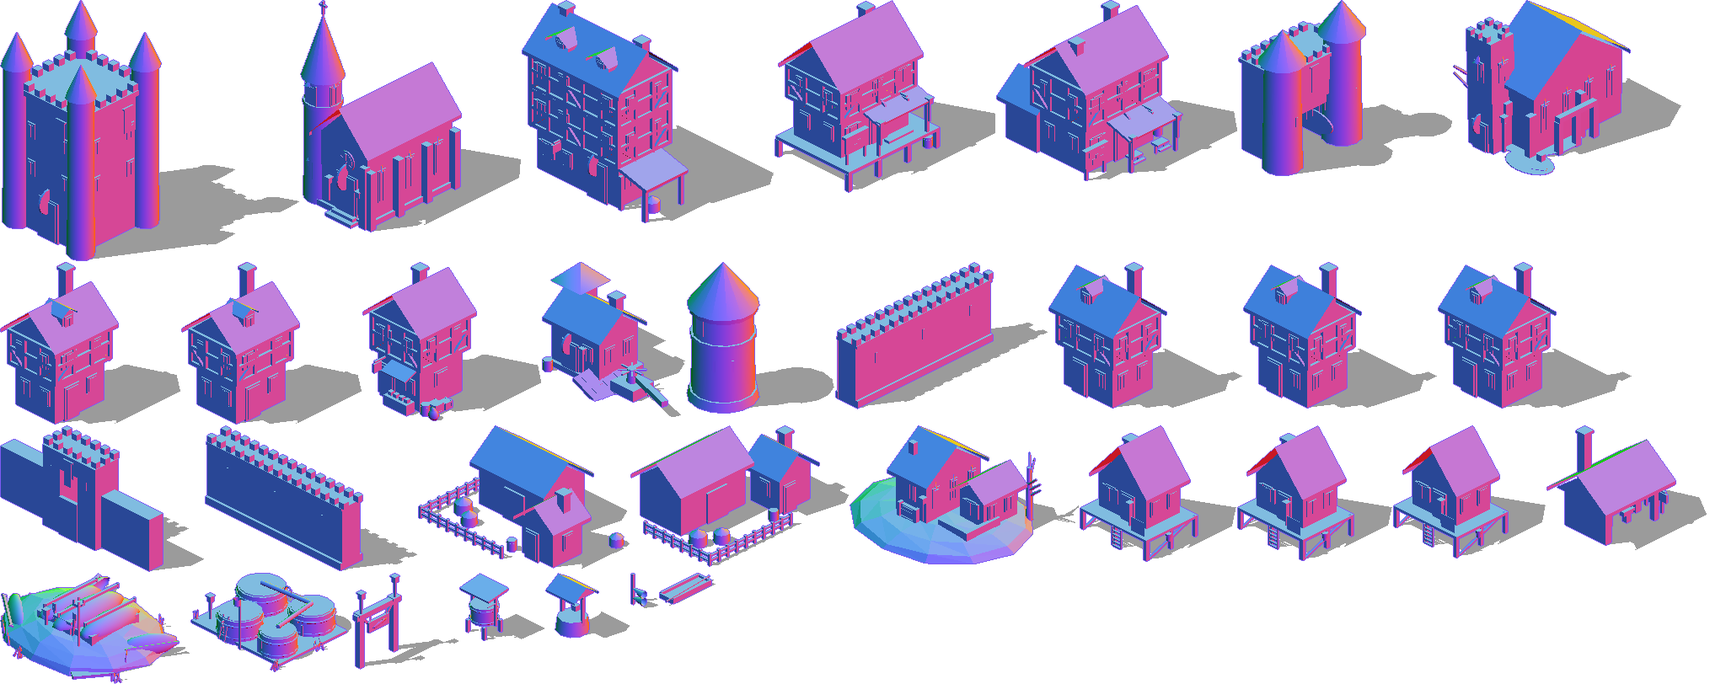
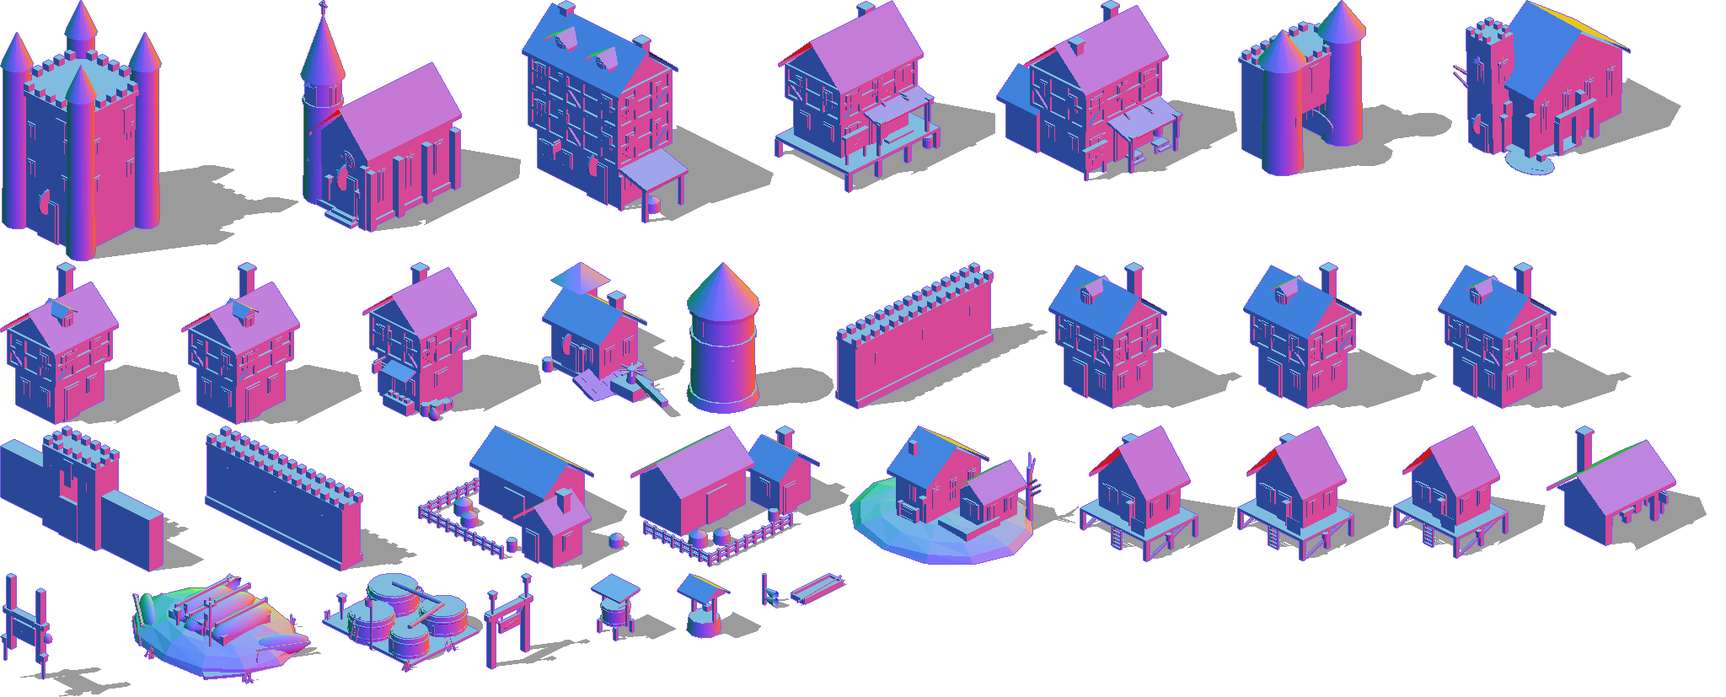
Saltmere: Wenna's ferry stage, and a sign you can tap for the Mere Tower
The owner, at Saltmere at night: "Its not obvious what to click on to get to the mere tower." The way was a 3-tile
jetty by the landing gate, a punt, and the name in the same plain text as any landmark's.

- A ferry stage over the jetty's end (buildkit `ferrystage`, town.json `fens_ferrystage_1`): a lantern arch taller
  than the landing gate (sprite top 12.7 vs 8.85), a black board painted with a pale tower, a bell. Re-baked
  town-fens; no other footprint changed (0 of the existing ids).
- The jetty runs 11 tiles now, under the arch, to a small pool of its own where the punt is moored; the way out is
  just past the arch. Checked by flood fill from the boardwalk on three seeds; the road test still holds.
- Its label is a door plaque (gold border, a ›, kept on screen, hung at the arch's beam so it clears Saltmere's
  name). renderer.doorAt hit-tests it at 44 CSS px tall at least; a tap walks the party there as the compass row
  does (goto site:mere_tower), or taps the ground if the row is missing.
- Tests: tower.test (the stage over the jetty's end, the sign on it, the compass row walks you out to the Tower);
  browser §21 (from the boardwalk at night the plaque is on screen; a tap walks you down the jetty and out).
- Docs: world doc (the stage), GDD §17 note, fens critic pass section, docs/img/mere-tower-way.jpg (before/after).

npm run check: 356 pass, SMOKE_OK, RENDER_SMOKE_OK; npm run test:browser: BROWSER_OK.
[…]

diff --git a/src/sim/envfoot.js b/src/sim/envfoot.js
@@ -1,4 +1,4 @@
 // envfoot.js — GENERATED by tools/actor-lab/bake-env.cjs. Do not edit.
 // Ground footprint of each baked environment sprite, in tiles relative to its
 // origin: [x0, y0, x1, y1]. Used for collision and placement.
-export const ENV_FOOT = {"pine_1":[-4.13,-4.18,4.39,4.34],"pine_2":[-4.81,-4.8,5.12,5],"pine_3":[-4.98,-5.01,5,4.96],"pine_4":[-5.13,-5.38,5.48,5.19],"pine_5":[-4.8,-4.87,4.86,4.58],"pine_6":[-4.76,-4.68,4.81,4.84],"oak_1":[-6.75,-7.14,6.33,6.1],"oak_2":[-5.79,-6.35,5.76,6.08],"oak_3":[-6.48,-6.65,6.29,5.96],"oak_4":[-6.59,-6.8,6.43,6.89],"autumn_1":[-6.59,-6.88,6.22,6.33],"autumn_2":[-5.57,-5.73,5.51,5.75],"autumn_3":[-5.1,-5.47,5.08,5.06],"birch_1":[-4.93,-3.24,2.73,4.21],"birch_2":[-4.81,-4.29,4.6,3.62],"birch_3":[-5.17,-3.57,4.88,4.81],"dead_1":[-2.24,-2.81,2.66,2.62],"dead_2":[-2.56,-1.87,2.98,3.05],"grove_1":[-9.86,-8.38,6.88,6.28],"grove_2":[-10.59,-7.13,5.79,8.69],"grove_3":[-10.94,-8,11.15,9.36],"grove_4":[-10.79,-8.1,8.04,10.5],"grove_5":[-9.42,-11.89,11.01,10.13],"grove_6":[-7.78,-9.39,8.91,8.76],"bridge_0":[-3.6,-9.7,3.6,9.7],"bridge_90":[-9.7,-3.6,9.7,3.6],"rock_A":[-2.18,-2.03,2.19,2.41],"rock_B":[-2.03,-2.12,2.06,1.97],"rock_C":[-3.06,-3.35,3.32,3.55],"rock_D":[-2.7,-3.56,2.22,2.22],"rock_E":[-3.72,-3.84,4.19,6.22],"mountain_A_grass_trees":[-10.67,-10.54,11.17,11.99],"mountain_B_grass_trees":[-12.25,-12.31,11.91,11.79],"mountain_C_grass_trees":[-11.39,-10.97,11.31,12.47],"mountain_A":[-10,-10.64,10.64,10.58],"mountain_B":[-11.58,-11.7,12.29,12.11],"mountain_massif_A":[-37.07,-33.75,43.44,35.17],"mountain_massif_B":[-30.31,-33,30.17,32.15],"mountain_massif_C":[-24.46,-24.21,25.04,24.61],"ruin":[-9.37,-9.66,9.14,6.89],"mine_0":[-13.86,-13.76,9.84,11.1],"lumbermill_90":[-10.3,-7.1,9.4,8.9],"barrel":[-0.89,-0.94,0.89,0.94],"crate_A_big":[-1.12,-1.12,1.12,1.19],"crate_A_small":[-0.72,-0.72,0.72,0.79],"crate_B_big":[-1.12,-1.12,1.12,1.19],"crate_long_A":[-2.02,-1.02,2.02,1.09],"sack":[-0.62,-0.49,1.25,1.36],"wheelbarrow":[-1.32,-2.69,1.32,3.23],"weaponrack":[-1.2,-0.19,2.1,0.81],"bucket_water":[-0.65,-0.65,0.65,0.65],"resource_lumber":[-3.33,-1.78,3.33,2.15],"resource_stone":[-1.7,-1.97,1.75,0.83],"flag_red":[-0.16,-0.12,0.16,1.84],"stump":[-1.06,-1.15,1.12,1.1],"fence_0":[-0.25,-6.05,0.3,6.05],"fence_90":[-6.05,-0.3,6.05,0.25],"drywall_0":[-0.83,-5.8,0.8,5.78],"drywall_90":[-5.8,-0.8,5.78,0.83],"stairsup_0":[-2.6,-4.15,2.6,3.1],"stairsup_90":[-4.15,-2.6,3.1,2.6],"stairsdown_0":[-3.38,-3.8,3.38,3.01],"watermill_0":[-6.12,-4.3,5.3,5.38],"chapelruin_0":[-6.67,-5.7,7.63,8.85],"milestone_0":[-1.68,-1.61,1.66,3.1],"warren_0":[-19.82,-24.03,13.71,8.3],"wagon_0":[-4.9,-1.55,4.09,3.62],"ug_bush":[-2.03,-2.14,2.18,2.18],"ug_fern":[-3.54,-3.27,3.7,3.52],"ug_plant":[-1.95,-2.32,2.09,2.06],"ug_flowers_1":[-0.86,-1.12,1.22,1.11],"ug_flowers_2":[-1.3,-0.89,1.19,1.02],"ug_grass_1":[-1.48,-1.64,1.6,1.55],"ug_grass_2":[-0.81,-0.96,0.98,1.03],"ug_clover":[-1,-0.94,0.7,0.73],"ug_mushroom":[-1.62,-0.82,1.79,1.94],"rock_F":[-2.07,-1.38,1.8,2.21],"rock_G":[-2.06,-1.39,1.6,1.58],"rock_H":[-2.19,-1.07,1.91,3.1],"wheat_1":[-0.69,-0.8,0.76,0.68],"wheat_2":[-0.71,-0.84,0.73,0.93],"wheat_3":[-0.9,-0.69,0.81,0.84],"cow_1":[-2.23,-1.26,3.32,1.47],"cow_2":[-1.59,-3.37,2.14,2.06],"cow_3":[-1.78,-1.91,2.44,2.81],"sheep_1":[-2.67,-1.44,1.86,1.44],"sheep_2":[-1.46,-2.63,1.49,1.85],"hens_1":[-1.36,-1.34,1.27,2.35],"pumpkins_1":[-1.77,-1.16,1.14,1.73],"hay_1":[-2.02,-1,2.02,1.25],"hay_2":[-1.48,-1.41,1.48,1.5],"planter_1":[-1.3,-0.4,1.3,0.4],"alder_1":[-4.75,-5.67,5.55,5.23],"alder_2":[-5.24,-5.4,5.37,5.39],"alder_3":[-5.48,-4.83,5.77,4.74],"willow_1":[-7.04,-6.27,6.42,6.51],"willow_2":[-7.57,-7.83,6.93,7.54],"carr_1":[-7.28,-6.88,6.22,6.2],"carr_2":[-6.81,-6.88,6.65,6.31],"vale_tavern_1":[-8.45,-6.72,7.25,6.3],"vale_inn_1":[-7.1,-4.4,10.48,5.1],"vale_shop_1":[-4.2,-4.2,5.72,5.07],"vale_temple_1":[-6.81,-6.95,4.5,7.84],"vale_well_1":[-2.1,-1.8,2.1,1.8],"vale_house_1":[-4.7,-4,4.7,4],"vale_house_2":[-4.7,-4,4.7,4],"vale_house_3":[-4.7,-4,4.7,4],"vale_housex_1":[-4,-4.7,4,4.7],"vale_housex_2":[-4,-4.7,4,4.7],"vale_farm_1":[-9.63,-5.7,9.77,7.63],"vale_farmx_1":[-5.7,-9.77,7.63,9.63],"vale_keep_1":[-6.37,-6.45,6.37,6.45],"vale_wall_1":[-11,-1.7,11,2.1],"vale_smith_1":[-4.3,-5.36,4.8,5.2],"vale_curtain_1":[-10.09,-2,10.15,2],"vale_curtainy_1":[-2,-10.15,2,10.09],"vale_tower_1":[-4.1,-4.1,4.1,4.1],"vale_gatehousey_1":[-3,-7.5,3,7.5],"fens_tavern_1":[-8.45,-6.72,7.25,6.3],"fens_inn_1":[-7.1,-4.4,10.48,5.1],"fens_shop_1":[-4.2,-4.2,5.72,5.07],"fens_temple_1":[-6.81,-6.95,4.5,7.84],"fens_well_1":[-2.1,-1.8,2.1,1.8],"fens_house_1":[-4.7,-4,4.7,4],"fens_house_2":[-4.7,-4,4.7,4],"fens_house_3":[-4.7,-4,4.7,4],"fens_housex_1":[-4,-4.7,4,4.7],"fens_housex_2":[-4,-4.7,4,4.7],"fens_farm_1":[-9.63,-5.7,9.77,7.63],"fens_farmx_1":[-5.7,-9.77,7.63,9.63],"fens_keep_1":[-6.37,-6.45,6.37,6.45],"fens_wall_1":[-11,-1.7,11,2.1],"fens_smith_1":[-4.3,-5.36,4.8,5.2],"fens_curtain_1":[-10,-1.6,10.3,1.6],"fens_curtainy_1":[-1.6,-10.3,1.6,10],"fens_tower_1":[-3.7,-3.8,3.7,3.8],"fens_gatehousey_1":[-3,-7,5.7,7],"fens_stilt_1":[-4.81,-3.8,5.15,3.99],"fens_stilt_2":[-4.66,-3.8,5,3.99],"fens_stilt_3":[-4.9,-3.8,5.24,3.99],"fens_stilttavern_1":[-5.45,-6.75,5.75,6.75],"fens_cistern_1":[-2.1,-1.56,2.1,1.56],"fens_punt_1":[-1,-3.29,1,3.69],"fens_eeltrap_1":[-0.45,-0.41,1.65,0.45],"fens_boathall_1":[-10.75,-9.86,9.83,7.48],"fens_lockhall_1":[-8.1,-6,12.96,5.11],"fens_vats_1":[-6.86,-6.13,7.31,5.8],"fens_abbey_1":[-8.09,-8.86,7.95,8.39],"fens_priory_1":[-10.4,-8.86,10.43,8.9],"fens_landing_1":[-0.45,-3.2,0.55,3.2],"reach_tavern_1":[-8.45,-6.72,7.25,6.3],"reach_inn_1":[-7.1,-4.4,10.48,5.1],"reach_shop_1":[-4.2,-4.2,5.72,5.07],"reach_temple_1":[-6.81,-6.95,4.5,7.84],"reach_well_1":[-2.1,-1.8,2.1,1.8],"reach_house_1":[-4.7,-4,4.7,4],"reach_house_2":[-4.7,-4,4.7,4],"reach_house_3":[-4.7,-4,4.7,4],"reach_housex_1":[-4,-4.7,4,4.7],"reach_housex_2":[-4,-4.7,4,4.7],"reach_farm_1":[-9.63,-5.7,9.77,7.63],"reach_farmx_1":[-5.7,-9.77,7.63,9.63],"reach_keep_1":[-6.37,-6.45,6.37,6.45],"reach_wall_1":[-11,-1.7,11,2.1],"reach_smith_1":[-4.3,-5.36,4.8,5.2],"reach_curtain_1":[-10,-1.6,10.3,1.6],"reach_curtainy_1":[-1.6,-10.3,1.6,10],"reach_tower_1":[-3.7,-3.8,3.7,3.8],"reach_gatehousey_1":[-3,-7,5.7,7],"heights_tavern_1":[-8.45,-6.72,7.25,6.3],"heights_inn_1":[-7.1,-4.4,10.48,5.1],"heights_shop_1":[-4.2,-4.2,5.72,5.07],"heights_temple_1":[-6.81,-6.95,4.5,7.84],"heights_well_1":[-2.1,-1.8,2.1,1.8],"heights_house_1":[-4.7,-4,4.7,4],"heights_house_2":[-4.7,-4,4.7,4],"heights_house_3":[-4.7,-4,4.7,4],"heights_housex_1":[-4,-4.7,4,4.7],"heights_housex_2":[-4,-4.7,4,4.7],"heights_farm_1":[-9.63,-5.7,9.77,7.63],"heights_farmx_1":[-5.7,-9.77,7.63,9.63],"heights_keep_1":[-6.37,-6.45,6.37,6.45],"heights_wall_1":[-11,-1.7,11,2.1],"heights_smith_1":[-4.3,-5.36,4.8,5.2],"heights_curtain_1":[-10,-1.6,10.3,1.6],"heights_curtainy_1":[-1.6,-10.3,1.6,10],"heights_tower_1":[-3.7,-3.8,3.7,3.8],"heights_gatehousey_1":[-3,-7,5.7,7]};
+export const ENV_FOOT = {"pine_1":[-4.13,-4.18,4.39,4.34],"pine_2":[-4.81,-4.8,5.12,5],"pine_3":[-4.98,-5.01,5,4.96],"pine_4":[-5.13,-5.38,5.48,5.19],"pine_5":[-4.8,-4.87,4.86,4.58],"pine_6":[-4.76,-4.68,4.81,4.84],"oak_1":[-6.75,-7.14,6.33,6.1],"oak_2":[-5.79,-6.35,5.76,6.08],"oak_3":[-6.48,-6.65,6.29,5.96],"oak_4":[-6.59,-6.8,6.43,6.89],"autumn_1":[-6.59,-6.88,6.22,6.33],"autumn_2":[-5.57,-5.73,5.51,5.75],"autumn_3":[-5.1,-5.47,5.08,5.06],"birch_1":[-4.93,-3.24,2.73,4.21],"birch_2":[-4.81,-4.29,4.6,3.62],"birch_3":[-5.17,-3.57,4.88,4.81],"dead_1":[-2.24,-2.81,2.66,2.62],"dead_2":[-2.56,-1.87,2.98,3.05],"grove_1":[-9.86,-8.38,6.88,6.28],"grove_2":[-10.59,-7.13,5.79,8.69],"grove_3":[-10.94,-8,11.15,9.36],"grove_4":[-10.79,-8.1,8.04,10.5],"grove_5":[-9.42,-11.89,11.01,10.13],"grove_6":[-7.78,-9.39,8.91,8.76],"bridge_0":[-3.6,-9.7,3.6,9.7],"bridge_90":[-9.7,-3.6,9.7,3.6],"rock_A":[-2.18,-2.03,2.19,2.41],"rock_B":[-2.03,-2.12,2.06,1.97],"rock_C":[-3.06,-3.35,3.32,3.55],"rock_D":[-2.7,-3.56,2.22,2.22],"rock_E":[-3.72,-3.84,4.19,6.22],"mountain_A_grass_trees":[-10.67,-10.54,11.17,11.99],"mountain_B_grass_trees":[-12.25,-12.31,11.91,11.79],"mountain_C_grass_trees":[-11.39,-10.97,11.31,12.47],"mountain_A":[-10,-10.64,10.64,10.58],"mountain_B":[-11.58,-11.7,12.29,12.11],"mountain_massif_A":[-37.07,-33.75,43.44,35.17],"mountain_massif_B":[-30.31,-33,30.17,32.15],"mountain_massif_C":[-24.46,-24.21,25.04,24.61],"ruin":[-9.37,-9.66,9.14,6.89],"mine_0":[-13.86,-13.76,9.84,11.1],"lumbermill_90":[-10.3,-7.1,9.4,8.9],"barrel":[-0.89,-0.94,0.89,0.94],"crate_A_big":[-1.12,-1.12,1.12,1.19],"crate_A_small":[-0.72,-0.72,0.72,0.79],"crate_B_big":[-1.12,-1.12,1.12,1.19],"crate_long_A":[-2.02,-1.02,2.02,1.09],"sack":[-0.62,-0.49,1.25,1.36],"wheelbarrow":[-1.32,-2.69,1.32,3.23],"weaponrack":[-1.2,-0.19,2.1,0.81],"bucket_water":[-0.65,-0.65,0.65,0.65],"resource_lumber":[-3.33,-1.78,3.33,2.15],"resource_stone":[-1.7,-1.97,1.75,0.83],"flag_red":[-0.16,-0.12,0.16,1.84],"stump":[-1.06,-1.15,1.12,1.1],"fence_0":[-0.25,-6.05,0.3,6.05],"fence_90":[-6.05,-0.3,6.05,0.25],"drywall_0":[-0.83,-5.8,0.8,5.78],"drywall_90":[-5.8,-0.8,5.78,0.83],"stairsup_0":[-2.6,-4.15,2.6,3.1],"stairsup_90":[-4.15,-2.6,3.1,2.6],"stairsdown_0":[-3.38,-3.8,3.38,3.01],"watermill_0":[-6.12,-4.3,5.3,5.38],"chapelruin_0":[-6.67,-5.7,7.63,8.85],"milestone_0":[-1.68,-1.61,1.66,3.1],"warren_0":[-19.82,-24.03,13.71,8.3],"wagon_0":[-4.9,-1.55,4.09,3.62],"ug_bush":[-2.03,-2.14,2.18,2.18],"ug_fern":[-3.54,-3.27,3.7,3.52],"ug_plant":[-1.95,-2.32,2.09,2.06],"ug_flowers_1":[-0.86,-1.12,1.22,1.11],"ug_flowers_2":[-1.3,-0.89,1.19,1.02],"ug_grass_1":[-1.48,-1.64,1.6,1.55],"ug_grass_2":[-0.81,-0.96,0.98,1.03],"ug_clover":[-1,-0.94,0.7,0.73],"ug_mushroom":[-1.62,-0.82,1.79,1.94],"rock_F":[-2.07,-1.38,1.8,2.21],"rock_G":[-2.06,-1.39,1.6,1.58],"rock_H":[-2.19,-1.07,1.91,3.1],"wheat_1":[-0.69,-0.8,0.76,0.68],"wheat_2":[-0.71,-0.84,0.73,0.93],"wheat_3":[-0.9,-0.69,0.81,0.84],"cow_1":[-2.23,-1.26,3.32,1.47],"cow_2":[-1.59,-3.37,2.14,2.06],"cow_3":[-1.78,-1.91,2.44,2.81],"sheep_1":[-2.67,-1.44,1.86,1.44],"sheep_2":[-1.46,-2.63,1.49,1.85],"hens_1":[-1.36,-1.34,1.27,2.35],"pumpkins_1":[-1.77,-1.16,1.14,1.73],"hay_1":[-2.02,-1,2.02,1.25],"hay_2":[-1.48,-1.41,1.48,1.5],"planter_1":[-1.3,-0.4,1.3,0.4],"alder_1":[-4.75,-5.67,5.55,5.23],"alder_2":[-5.24,-5.4,5.37,5.39],"alder_3":[-5.48,-4.83,5.77,4.74],"willow_1":[-7.04,-6.27,6.42,6.51],"willow_2":[-7.57,-7.83,6.93,7.54],"carr_1":[-7.28,-6.88,6.22,6.2],"carr_2":[-6.81,-6.88,6.65,6.31],"vale_tavern_1":[-8.45,-6.72,7.25,6.3],"vale_inn_1":[-7.1,-4.4,10.48,5.1],"vale_shop_1":[-4.2,-4.2,5.72,5.07],"vale_temple_1":[-6.81,-6.95,4.5,7.84],"vale_well_1":[-2.1,-1.8,2.1,1.8],"vale_house_1":[-4.7,-4,4.7,4],"vale_house_2":[-4.7,-4,4.7,4],"vale_house_3":[-4.7,-4,4.7,4],"vale_housex_1":[-4,-4.7,4,4.7],"vale_housex_2":[-4,-4.7,4,4.7],"vale_farm_1":[-9.63,-5.7,9.77,7.63],"vale_farmx_1":[-5.7,-9.77,7.63,9.63],"vale_keep_1":[-6.37,-6.45,6.37,6.45],"vale_wall_1":[-11,-1.7,11,2.1],"vale_smith_1":[-4.3,-5.36,4.8,5.2],"vale_curtain_1":[-10.09,-2,10.15,2],"vale_curtainy_1":[-2,-10.15,2,10.09],"vale_tower_1":[-4.1,-4.1,4.1,4.1],"vale_gatehousey_1":[-3,-7.5,3,7.5],"fens_tavern_1":[-8.45,-6.72,7.25,6.3],"fens_inn_1":[-7.1,-4.4,10.48,5.1],"fens_shop_1":[-4.2,-4.2,5.72,5.07],"fens_temple_1":[-6.81,-6.95,4.5,7.84],"fens_well_1":[-2.1,-1.8,2.1,1.8],"fens_house_1":[-4.7,-4,4.7,4],"fens_house_2":[-4.7,-4,4.7,4],"fens_house_3":[-4.7,-4,4.7,4],"fens_housex_1":[-4,-4.7,4,4.7],"fens_housex_2":[-4,-4.7,4,4.7],"fens_farm_1":[-9.63,-5.7,9.77,7.63],"fens_farmx_1":[-5.7,-9.77,7.63,9.63],"fens_keep_1":[-6.37,-6.45,6.37,6.45],"fens_wall_1":[-11,-1.7,11,2.1],"fens_smith_1":[-4.3,-5.36,4.8,5.2],"fens_curtain_1":[-10,-1.6,10.3,1.6],"fens_curtainy_1":[-1.6,-10.3,1.6,10],"fens_tower_1":[-3.7,-3.8,3.7,3.8],"fens_gatehousey_1":[-3,-7,5.7,7],"fens_stilt_1":[-4.81,-3.8,5.15,3.99],"fens_stilt_2":[-4.66,-3.8,5,3.99],"fens_stilt_3":[-4.9,-3.8,5.24,3.99],"fens_stilttavern_1":[-5.45,-6.75,5.75,6.75],"fens_cistern_1":[-2.1,-1.56,2.1,1.56],"fens_punt_1":[-1,-3.29,1,3.69],"fens_eeltrap_1":[-0.45,-0.41,1.65,0.45],"fens_boathall_1":[-10.75,-9.86,9.83,7.48],"fens_lockhall_1":[-8.1,-6,12.96,5.11],"fens_vats_1":[-6.86,-6.13,7.31,5.8],"fens_abbey_1":[-8.09,-8.86,7.95,8.39],"fens_priory_1":[-10.4,-8.86,10.43,8.9],"fens_landing_1":[-0.45,-3.2,0.55,3.2],"fens_ferrystage_1":[-3.15,-0.5,3.64,0.55],"reach_tavern_1":[-8.45,-6.72,7.25,6.3],"reach_inn_1":[-7.1,-4.4,10.48,5.1],"reach_shop_1":[-4.2,-4.2,5.72,5.07],"reach_temple_1":[-6.81,-6.95,4.5,7.84],"reach_well_1":[-2.1,-1.8,2.1,1.8],"reach_house_1":[-4.7,-4,4.7,4],"reach_house_2":[-4.7,-4,4.7,4],"reach_house_3":[-4.7,-4,4.7,4],"reach_housex_1":[-4,-4.7,4,4.7],"reach_housex_2":[-4,-4.7,4,4.7],"reach_farm_1":[-9.63,-5.7,9.77,7.63],"reach_farmx_1":[-5.7,-9.77,7.63,9.63],"reach_keep_1":[-6.37,-6.45,6.37,6.45],"reach_wall_1":[-11,-1.7,11,2.1],"reach_smith_1":[-4.3,-5.36,4.8,5.2],"reach_curtain_1":[-10,-1.6,10.3,1.6],"reach_curtainy_1":[-1.6,-10.3,1.6,10],"reach_tower_1":[-3.7,-3.8,3.7,3.8],"reach_gatehousey_1":[-3,-7,5.7,7],"heights_tavern_1":[-8.45,-6.72,7.25,6.3],"heights_inn_1":[-7.1,-4.4,10.48,5.1],"heights_shop_1":[-4.2,-4.2,5.72,5.07],"heights_temple_1":[-6.81,-6.95,4.5,7.84],"heights_well_1":[-2.1,-1.8,2.1,1.8],"heights_house_1":[-4.7,-4,4.7,4],"heights_house_2":[-4.7,-4,4.7,4],"heights_house_3":[-4.7,-4,4.7,4],"heights_housex_1":[-4,-4.7,4,4.7],"heights_housex_2":[-4,-4.7,4,4.7],"heights_farm_1":[-9.63,-5.7,9.77,7.63],"heights_farmx_1":[-5.7,-9.77,7.63,9.63],"heights_keep_1":[-6.37,-6.45,6.37,6.45],"heights_wall_1":[-11,-1.7,11,2.1],"heights_smith_1":[-4.3,-5.36,4.8,5.2],"heights_curtain_1":[-10,-1.6,10.3,1.6],"heights_curtainy_1":[-1.6,-10.3,1.6,10],"heights_tower_1":[-3.7,-3.8,3.7,3.8],"heights_gatehousey_1":[-3,-7,5.7,7]};

diff --git a/src/sim/outdoor.js b/src/sim/outdoor.js
@@ -423,7 +423,8 @@ function buildFens(seed) {
   // meres: Saltmere's, the Mound's (behind the island), the Sickpools' green water, the Abbey's flood round its walls;
   // and the fen's own, by the seed
   o.pools.push({ cx: salt[0] - 3, cy: salt[1] - 6, rx: 16, ry: 13 }, { cx: mound[0] - 12, cy: mound[1] - 10, rx: 17, ry: 12 },
-    { cx: pools[0] + 4, cy: pools[1] - 16, rx: 15, ry: 9 }, { cx: abbey[0] + 2, cy: abbey[1] - 4, rx: 22, ry: 15 });
+    { cx: pools[0] + 4, cy: pools[1] - 16, rx: 15, ry: 9 }, { cx: abbey[0] + 2, cy: abbey[1] - 4, rx: 22, ry: 15 },
+    { cx: salt[0] + 9, cy: salt[1] + 16, rx: 6, ry: 5 });   // (and the pool Wenna's punt waits in, at the jetty's end)
   const keepOut = [north, salt, mound, locks, lockhall, pools, abbey, reedholm];
   for (let i = 0; i < 26; i++) {
     const cx = rng() * 240, cy = rng() * 240, rx = 5 + rng() * 11, ry = 4 + rng() * 8;
@@ -434,7 +435,7 @@ function buildFens(seed) {
   const ROADS = [
     { w: 5, surface: 'dirt', pts: [[north[0], -30], [north[0] + 2, 14], [salt[0] + 12, salt[1] - 20], [salt[0] + 20, salt[1] + 6], [92, 100], [locks[0] - 8, locks[1]]] },   // the canal road, down from the Vale past Saltmere to the Locks
     { w: 4, surface: 'deck', pts: [[salt[0] + 19, salt[1]], [salt[0] - 2, salt[1]]] },                                     // Saltmere's boardwalk, straight in off the canal road to its landing gate
-    { w: 3, surface: 'deck', pts: [[salt[0] + 10, salt[1] + 1], [salt[0] + 10, salt[1] + 4]] },                            // (world doc v1.23) the jetty off it to Wenna Pike's punt: the Mere Tower
+    { w: 3, surface: 'deck', pts: [[salt[0] + 10, salt[1] + 1], [salt[0] + 10, salt[1] + 12]] },                            // (world doc v1.23) the jetty off it to Wenna Pike's punt: the Mere Tower
     { w: 5, surface: 'dirt', pts: [[locks[0] - 8, locks[1]], [locks[0] + 18, locks[1]]] },                                  // over the lock gates
     { w: 3, surface: 'track', pts: [[92, 114], [86, 122], [lockhall[0] + 1, lockhall[1] + 11]] },                         // to the lock-keepers' door
     { w: 4, surface: 'dirt', pts: [[locks[0] + 18, locks[1]], [150, 116], door(pools, 14)] },                              // east to the Sickpools
@@ -454,7 +455,12 @@ function buildFens(seed) {
     for (const dy of [-2.6, 2.6]) { const i = gi(o, G[0], G[1] + dy); if (i >= 0) o.blocked[i] = 1; }   // the piles
     for (const [id, x, y] of [[B('stilttavern'), salt[0] - 6, salt[1] - 12], [B('stilt', 1), salt[0] - 16, salt[1]], [B('stilt', 2), salt[0] + 2, salt[1] - 18],
       [B('stilt', 3), salt[0] - 14, salt[1] + 12], [B('stilt', 1), salt[0] - 20, salt[1] - 16], [B('stilt', 2), salt[0] - 8, salt[1] - 26]]) put(o, id, x, y);
-    for (const [id, x, y] of [[B('punt'), salt[0] + 10, salt[1] + 8], [B('punt'), salt[0] - 22, salt[1] - 8], [B('eeltrap'), salt[0] - 22, salt[1] + 4], [B('eeltrap'), salt[0] + 2, salt[1] + 10]]) put(o, id, x, y, 'rect', 0); }
+    for (const [id, x, y] of [[B('punt'), salt[0] + 8, salt[1] + 17], [B('punt'), salt[0] - 22, salt[1] - 8], [B('eeltrap'), salt[0] - 22, salt[1] + 4], [B('eeltrap'), salt[0] + 2, salt[1] + 10]]) put(o, id, x, y, 'rect', 0);
+    // Wenna Pike's ferry stage over the jetty's end, her punt moored past it (2026-10-05, the owner: it wasn't obvious
+    // where to go for the Mere Tower): an arch taller than the landing gate, lanterns on it, a black board with a pale
+    // tower; walked under, its posts either side of the jetty
+    put(o, B('ferrystage'), salt[0] + 10, salt[1] + 9, 'none');
+    for (const dx of [-2.4, 2.4]) { const i = gi(o, salt[0] + 10 + dx, salt[1] + 9); if (i >= 0) o.blocked[i] = 1; } }
   // the sites (world doc §3.2): the Toadking's island, the lock-keepers' hall by the gates, the vats, the Abbey in its
   // flood, Reedholm on its rise (the Undercroft's door in its chapel front, shut until the Fens set is whole)
   put(o, B('boathall'), mound[0], mound[1]); put(o, B('lockhall'), lockhall[0], lockhall[1]); put(o, B('vats'), pools[0], pools[1]);
@@ -464,7 +470,7 @@ function buildFens(seed) {
     { x: mound[0], y: mound[1], id: B('boathall'), text: "Toadking's Mound", site: 'toadking_mound' }, { x: lockhall[0], y: lockhall[1], id: B('lockhall'), text: 'The Canal Locks', site: 'canal_locks' },
     { x: pools[0], y: pools[1], id: B('vats'), text: 'The Sickpools', site: 'sickpools' }, { x: abbey[0], y: abbey[1], id: B('abbey'), text: 'The Drowned Abbey', site: 'drowned_abbey' },
     { x: reedholm[0], y: reedholm[1], id: B('priory'), text: 'Reedholm' },
-    { x: salt[0] + 10, y: salt[1] + 8, id: B('punt'), text: 'The Mere Tower · Wenna’s punt', site: 'mere_tower' });
+    { x: salt[0] + 10, y: salt[1] + 9, id: B('ferrystage'), text: 'The Mere Tower · Wenna’s punt', site: 'mere_tower', door: true });   // door: a plaque a tap walks you to (renderer doorAt)
   // the fen's trees: alder carr and willows, low and dark, dead trees standing in the water's edge; never on a road
   // (fens critic pass 2: the Vale's birches and mixed groves read round and cheerful here; the same draws, the Fens' kinds)
   scatter(o, rng, -60, -60, 300, 300, 7, (x, y) => {
@@ -488,8 +494,8 @@ function buildFens(seed) {
   o.arrivals = { default: { x: salt[0] + 12.5, y: salt[1] + 0.5 }, saltmere: { x: salt[0] + 12.5, y: salt[1] + 0.5 }, vale_road: { x: north[0] + 0.5, y: 2.5 } };   // on the boardwalk, facing the gate
   for (const [site, [x, y]] of Object.entries(SITE_AT)) o.arrivals[site] = { x: x + 1.5, y: y + DOOR_Y[site] + 7.5 };
   // Wenna Pike's punt at the jetty's end (world doc v1.23; tower.js): out to the Mere Tower, and back to the jetty
-  o.exits.push({ x0: salt[0] + 8.5, y0: salt[1] + 3.5, x1: salt[0] + 11.5, y1: salt[1] + 5.5, to: 'dungeon', site: 'mere_tower' });
-  o.arrivals.mere_tower = { x: salt[0] + 10.5, y: salt[1] + 1 };
+  o.exits.push({ x0: salt[0] + 8.5, y0: salt[1] + 9.5, x1: salt[0] + 11.5, y1: salt[1] + 12, to: 'dungeon', site: 'mere_tower' });
+  o.arrivals.mere_tower = { x: salt[0] + 10.5, y: salt[1] + 6 };
   o.spawn = o.arrivals.default;
   return o;
 }

diff --git a/src/render/renderer.js b/src/render/renderer.js
@@ -1256,12 +1256,15 @@ export function createRenderer(canvas, sim, input) {
     octx.strokeStyle = 'rgba(0,0,0,0.6)'; octx.stroke();
   }
   // Place names float over nearby landmarks (the tavern, the guild hall, the keep…).
+  // a door label's plaque as last drawn (canvas px), for a tap (doorAt): a way somewhere, tapped to walk there
+  const doorRects = [];
   function drawLabels(ox, oy, ix, iy) {
     const k = vw / window.innerWidth, z = heightAt(sim.world, 0, 0);
+    doorRects.length = 0;
     octx.font = `600 ${Math.round(11 * k)}px Georgia, 'Times New Roman', serif`; octx.textAlign = 'center';
     for (const L of sim.world.labels || []) {
-      const d = Math.hypot(L.x - ix, L.y - iy); if (d > (L.service && camT > 0.5 ? 90 : 60) || hiddenHere(L)) continue;   // (on the home screen every service's plaque, however far: the temple heads the square)
-      const top = (envMeta && L.id && envMeta.sprites[L.id]) ? envMeta.sprites[L.id].top * 9.8 : 100;
+      const d = Math.hypot(L.x - ix, L.y - iy); if (d > (L.service && camT > 0.5 ? 90 : L.door ? 70 : 60) || hiddenHere(L)) continue;   // (on the home screen every service's plaque, however far: the temple heads the square)
+      const top = ((envMeta && L.id && envMeta.sprites[L.id]) ? envMeta.sprites[L.id].top * 9.8 : 100) * (L.door ? 0.62 : 1);   // (a door's sign hangs on it, at its beam)
       const P = project(L.x, L.y, z), sy0 = (oy + P.sy - top - 10) * S; let sx = (ox + P.sx) * S;
       if (L.service ? (sx < -vw * 0.3 || sx > vw * 1.3 || sy0 < -vh * 0.4 || sy0 > vh) : (sx < 0 || sx > vw || sy0 < -40 * k || sy0 > vh)) continue;
       const sy = Math.max(sy0, (hudB + 22) * k);               // never under the top HUD: a tall spire's label slides down below it
@@ -1273,6 +1276,15 @@ export function createRenderer(canvas, sim, input) {
         octx.fillStyle = `rgba(16,12,22,${0.78 * a})`; octx.strokeStyle = `rgba(214,170,98,${0.55 * a})`; octx.lineWidth = Math.max(1, k);
         octx.beginPath(); octx.roundRect(sx - tw / 2, sy - th + 4 * k, tw, th, 5 * k); octx.fill(); octx.stroke();
         octx.fillStyle = `rgba(240,200,128,${a})`; octx.fillText(L.text, sx, sy);
+        continue;
+      }
+      if (L.door) {                                                 // a way somewhere (the Mere Tower's punt): a sign with a ›, tapped to walk there
+        const t = L.text + '  ›', tw = octx.measureText(t).width + 16 * k, th = 19 * k, y0 = sy - th + 5 * k;
+        sx = Math.min(Math.max(sx, tw / 2 + 4 * k), vw - tw / 2 - 4 * k);       // (kept on screen whole, as a service's is)
+        octx.fillStyle = `rgba(16,12,22,${0.82 * a})`; octx.strokeStyle = `rgba(232,190,110,${0.85 * a})`; octx.lineWidth = Math.max(1.5, 1.5 * k);
+        octx.beginPath(); octx.roundRect(sx - tw / 2, y0, tw, th, 6 * k); octx.fill(); octx.stroke();
+        octx.fillStyle = `rgba(250,214,140,${a})`; octx.fillText(t, sx, sy);
+        if (a > 0.3) doorRects.push({ x0: sx - tw / 2, y0, x1: sx + tw / 2, y1: y0 + th, L });
         continue;
       }
       octx.fillStyle = `rgba(8,5,14,${0.7 * a})`; octx.fillText(L.text, sx + k, sy + k);
@@ -1610,6 +1622,12 @@ export function createRenderer(canvas, sim, input) {
         const d = Math.hypot(dx, dy + up * 0.45); if (d < bd) { bd = d; best = n; }
       }
       return best;
+    },
+    /** the door label (a plaque with a ›) under a tap, a thumb's reach round it (44 CSS px tall at least), or null */
+    doorAt(sxPx, syPx) {
+      const k = vw / window.innerWidth, x = sxPx * k, y = syPx * k;
+      for (const r of doorRects) { const pad = Math.max(0, (44 * k - (r.y1 - r.y0)) / 2); if (x >= r.x0 - 6 * k && x <= r.x1 + 6 * k && y >= r.y0 - pad && y <= r.y1 + pad) return r.L; }
+      return null;
     },
     serviceAt(sxPx, syPx) {
       const w = sim.world; if (!w.services || !w.services.length || !envMeta) return null;

diff --git a/tools/actor-lab/buildkit.js b/tools/actor-lab/buildkit.js
@@ -1084,6 +1084,26 @@ Object.assign(TYPES, {
     box(0.03, 0.12, 0.3, S.m.signboard, 0.02, H - 0.26, 0, g);                                           // the board
     const eel = new THREE.Mesh(new THREE.SphereGeometry(1, 8, 4), mat(null, '#b8a060')); eel.scale.set(0.008, 0.022, 0.11); eel.position.set(0.04, H - 0.2, 0); eel.rotation.x = 0.2; g.add(eel);
   },
+  // Wenna Pike's ferry stage (world doc v1.23; sim tower.js): an arch over the end of the jetty off Saltmere's boardwalk,
+  // where her punt takes companies out to the Mere Tower (2026-10-05, the owner: it wasn't obvious where to go). Taller
+  // than the landing gate, a lantern high on each post and one low (it shows across the dark), a black board painted
+  // with a pale tower hung square to the camera (+z), and the bell you ring for her. The jetty runs under it, along z.
+  ferrystage(S, g, r) {
+    const H = 0.86, X = 0.22;
+    for (const sx of [-1, 1]) {
+      box(0.07, H, 0.07, S.m.beam, sx * X, H / 2 - 0.02, 0, g);
+      box(0.1, 0.03, 0.1, S.m.trim, sx * X, H - 0.01, 0, g);
+      lantern(g, S, sx * X, H + 0.2, 0); lantern(g, S, sx * (X + 0.06), 0.46, 0.02);
+      const brace = box(0.025, 0.2, 0.025, S.m.beam, sx * (X - 0.08), H - 0.2, 0, g); brace.rotation.z = -sx * 0.7;
+    }
+    box(X * 2 + 0.16, 0.06, 0.08, S.m.beam, 0, H - 0.04, 0, g);                                         // the beam
+    for (const sx of [-1, 1]) box(0.008, 0.08, 0.008, S.m.trim, sx * 0.12, H - 0.12, 0.02, g);           // the board's chains
+    box(0.32, 0.2, 0.03, mat(null, '#1a181e'), 0, H - 0.27, 0.02, g);                                   // the black board…
+    box(0.05, 0.14, 0.034, mat(null, '#c8d0dc'), 0, H - 0.27, 0.02, g);                                 // …its pale tower…
+    box(0.08, 0.025, 0.034, mat(null, '#c8d0dc'), 0, H - 0.2, 0.02, g);                                  // …and the tower's lit top
+    const bell = new THREE.Mesh(new THREE.SphereGeometry(1, 8, 4, 0, Math.PI * 2, 0, Math.PI * 0.6), mat(null, '#8a7a48'));
+    bell.scale.set(0.045, 0.06, 0.045); bell.position.set(X + 0.1, H - 0.14, 0); g.add(bell);           // the bell for Wenna, off the beam's end
+  },
   // ── the Fens' sites (M8 slice 3; world doc v1.20 §3.2). Each way in faces the camera (+z), where the overland's
   // exit is, with a lantern by it.
   // Toadking's Mound: an island of stolen boats. A turfed mound with a hall roofed in three hulls laid keel-up, side by

diff --git a/src/main.js b/src/main.js
@@ -139,6 +139,13 @@ input.onTap((sx, sy) => {
   if (STAGE) return;                                     // the Stage: nothing in the world to tap
   const npc = renderer.npcAt(sx, sy);                    // a named person: walk over and talk (the sim checks reach)
   if (npc) { sim.commands.push({ type: 'talk', npc: npc.id }); return; }
+  const door = renderer.doorAt(sx, sy);                  // a way somewhere's sign (the Mere Tower's punt): walk to it, as its compass row does
+  if (door) {
+    const row = door.site && sim.destinations().find((d) => d.id === 'site:' + door.site && !d.off);
+    if (row) sim.commands.push({ type: 'goto', tx: row.tx, ty: row.ty, near: 0, label: row.label, site: row.site, journey: row.journey || null });
+    else { const t = renderer.screenToTile(sx, sy, 1); sim.commands.push({ type: 'tap', tx: t.tx, ty: t.ty }); }
+    return;
+  }
   const sv = renderer.serviceAt(sx, sy);                 // a service building: its menu once you're in the square,
   if (sv && townMenu.inSquare()) { townMenu.open(sv); return; }
   if (sv) { const h = sim.world.hub; sim.commands.push({ type: 'tap', tx: Math.floor(h.x), ty: Math.floor(h.y) }); return; }   // else walk to the square

diff --git a/docs/fens-critic-pass.md b/docs/fens-critic-pass.md
@@ -236,3 +236,23 @@ What the first bake got wrong, and what changed:
 
 Still open: the Twins don't yet read as *half pale, half dark* (the swatch tiles split by part, not by side); the
 Mudlark's hoe stands straight up at idle; the Hound would read more beast-like with a hunch (the lab's `frame` knob).
+
+## The way to the Mere Tower (2026-10-05)
+
+The owner, at Saltmere at night: *"Its not obvious what to click on to get to the mere tower."* The way was a short
+jetty off the boardwalk with a punt at its end and the name over it in the same plain text as any landmark's; nothing
+said it was a place you could go, and at night the jetty was a dark smudge by the landing gate.
+
+- **A ferry stage** (`tools/actor-lab/buildkit.js` `ferrystage`, `town.json` `fens_ferrystage_1`): an arch over the
+  jetty's end, taller than the landing gate (12.7 against 8.85 tiles of sprite top), a lantern high on each post and
+  one low, a black board painted with a pale tower hung square to the camera, and the bell you ring for Wenna.
+- **The jetty** runs 11 tiles now (it was 3), under the arch, to a small pool of its own where the punt is moored; the
+  way out to the Tower is just past the arch (`src/sim/outdoor.js` buildFens). No other footprint moved (the env bake's
+  footprints compared before and after: 0 changed).
+- **Its sign is a plaque** (`renderer.js` drawLabels, a label with `door`): gold-bordered, with a ›, kept on screen,
+  hung at the arch's beam so it doesn't sit on Saltmere's own name. A tap on it (`renderer.doorAt`, at least 44 CSS px
+  tall) walks the party there as the compass's row does (`goto` with the `site:mere_tower` row; a tap on the ground
+  when the row isn't there).
+- Checked: `test/tower.test.mjs` (the stage over the jetty's end, the sign on it, the compass row walks you out to the
+  Tower); browser §21 (from the boardwalk at night the plaque is on screen; a tap walks you down the jetty and out).
+  Before and after: `docs/img/mere-tower-way.jpg`.

diff --git a/docs/emberfall-world.md b/docs/emberfall-world.md
@@ -466,7 +466,8 @@ Throne's flame carried out. It was built for half a million people; about twenty
   down who goes in, and companies scratch their marks on the stair-wall at the highest landing they held (**the
   Wall**). It isn't the Guild's, and it isn't a lamp. It seems to take in whatever comes near it and keep it.
   (v1.23) **Before Solmere is reached,** Wenna Pike also works out of Saltmere: a second punt tied at the end of a
-  jetty off Saltmere's boardwalk, up the old canal and across the Mere. It's a long row and she charges nothing for
+  jetty off Saltmere's boardwalk (the jetty ends under her stage: a lantern arch, a black board painted with a pale
+  tower, and a bell to ring for her), up the old canal and across the Mere. It's a long row and she charges nothing for
   it ("the Tower pays me"; nobody has asked how). The Sisters' register at the Tower's door won't write down a
   company under level 12: *"We only write down the ones we'd expect to see again."*
 - **The Great Beacon**: the imperial beacon-tower over the Lamphall, which carried the Voices' orders. Its

diff --git a/docs/emberfall-gdd.md b/docs/emberfall-gdd.md
@@ -1467,7 +1467,8 @@ The owner's decisions of 2026-10-04 ([world-map-proposal.md](./world-map-proposa
     beating there costs no quarter of your gold;
   - the climb is saved (v21) and carries on at its wave after a load; the company's highest wave and landing are kept
     (its own Wall until the validator writes the real one; the flame clock, brackets and Tower-found pieces come with it).
-  The jetty, a warden and a landing: `docs/img/mere-tower.jpg`.
+  The jetty, a warden and a landing: `docs/img/mere-tower.jpg`. (2026-10-05) The jetty ends under Wenna's ferry stage,
+  its sign a plaque with a › that a tap walks you to, as the compass's row does (`docs/img/mere-tower-way.jpg`).
   The wardens are baked at the bosses' 73 px, each its own look (2026-10-05; `docs/img/wardens.jpg`, `docs/fens-critic-pass.md`).
 - **The Great Beacon:** a finite Guild site, two landings opening with each region from the Reach, its lamp-room
   after the Throne (★ *Let Them Go Dark*).
